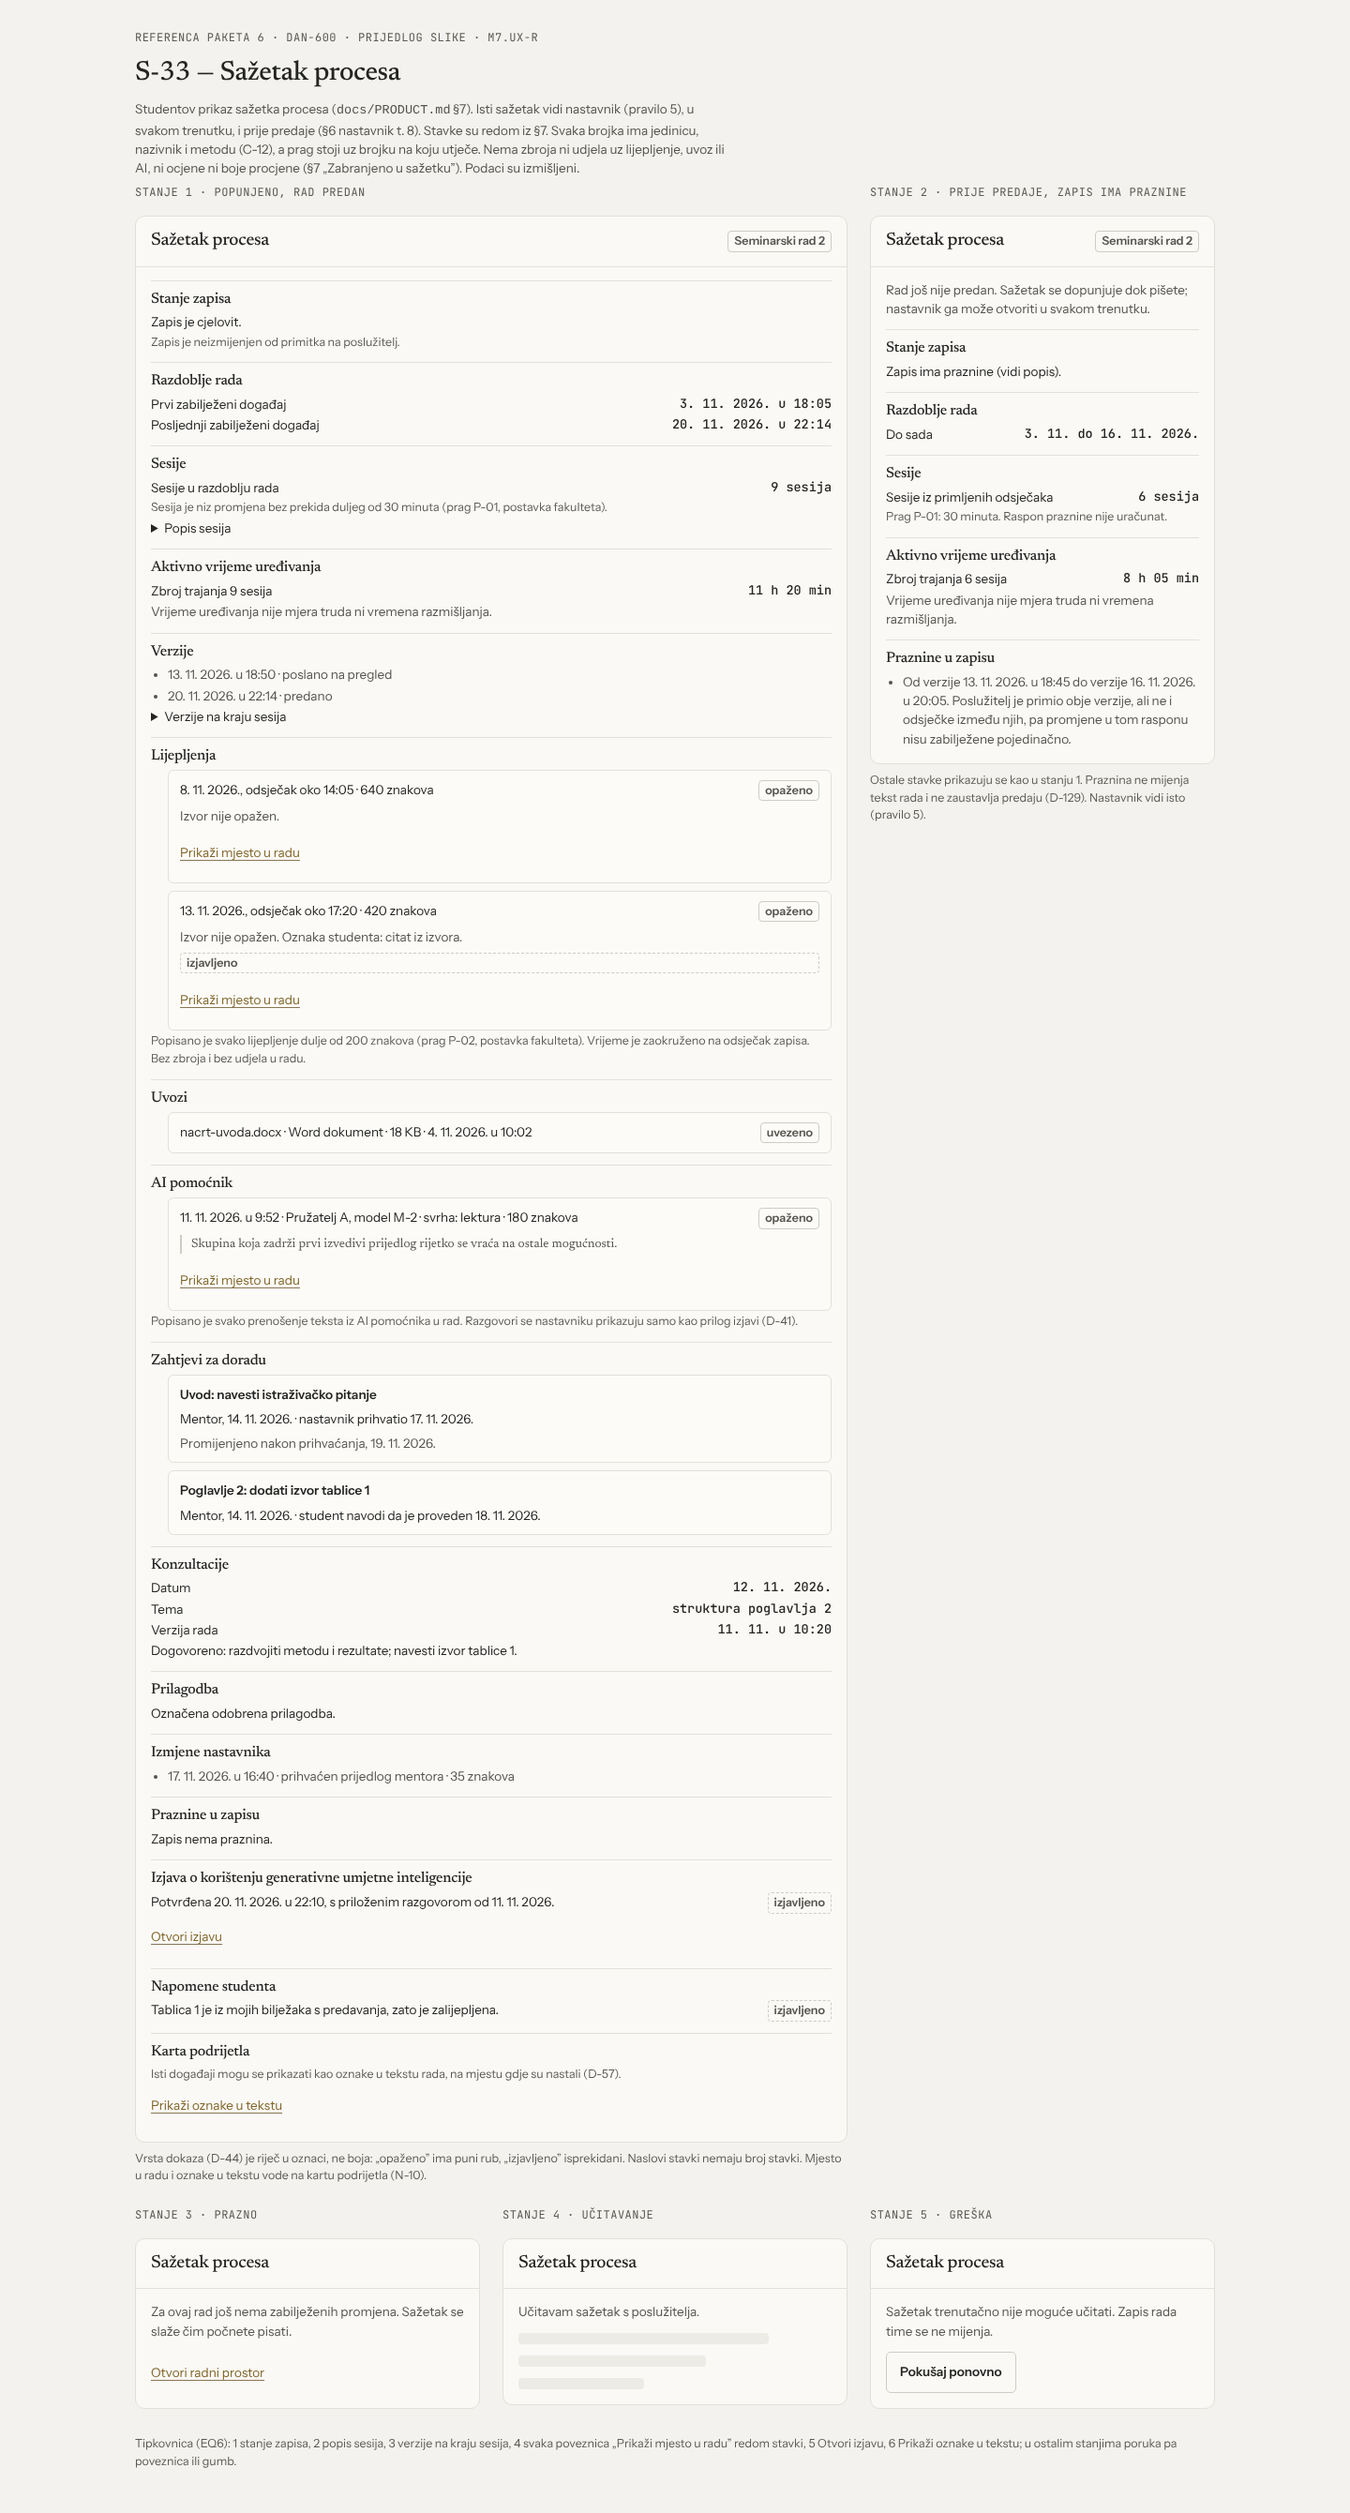
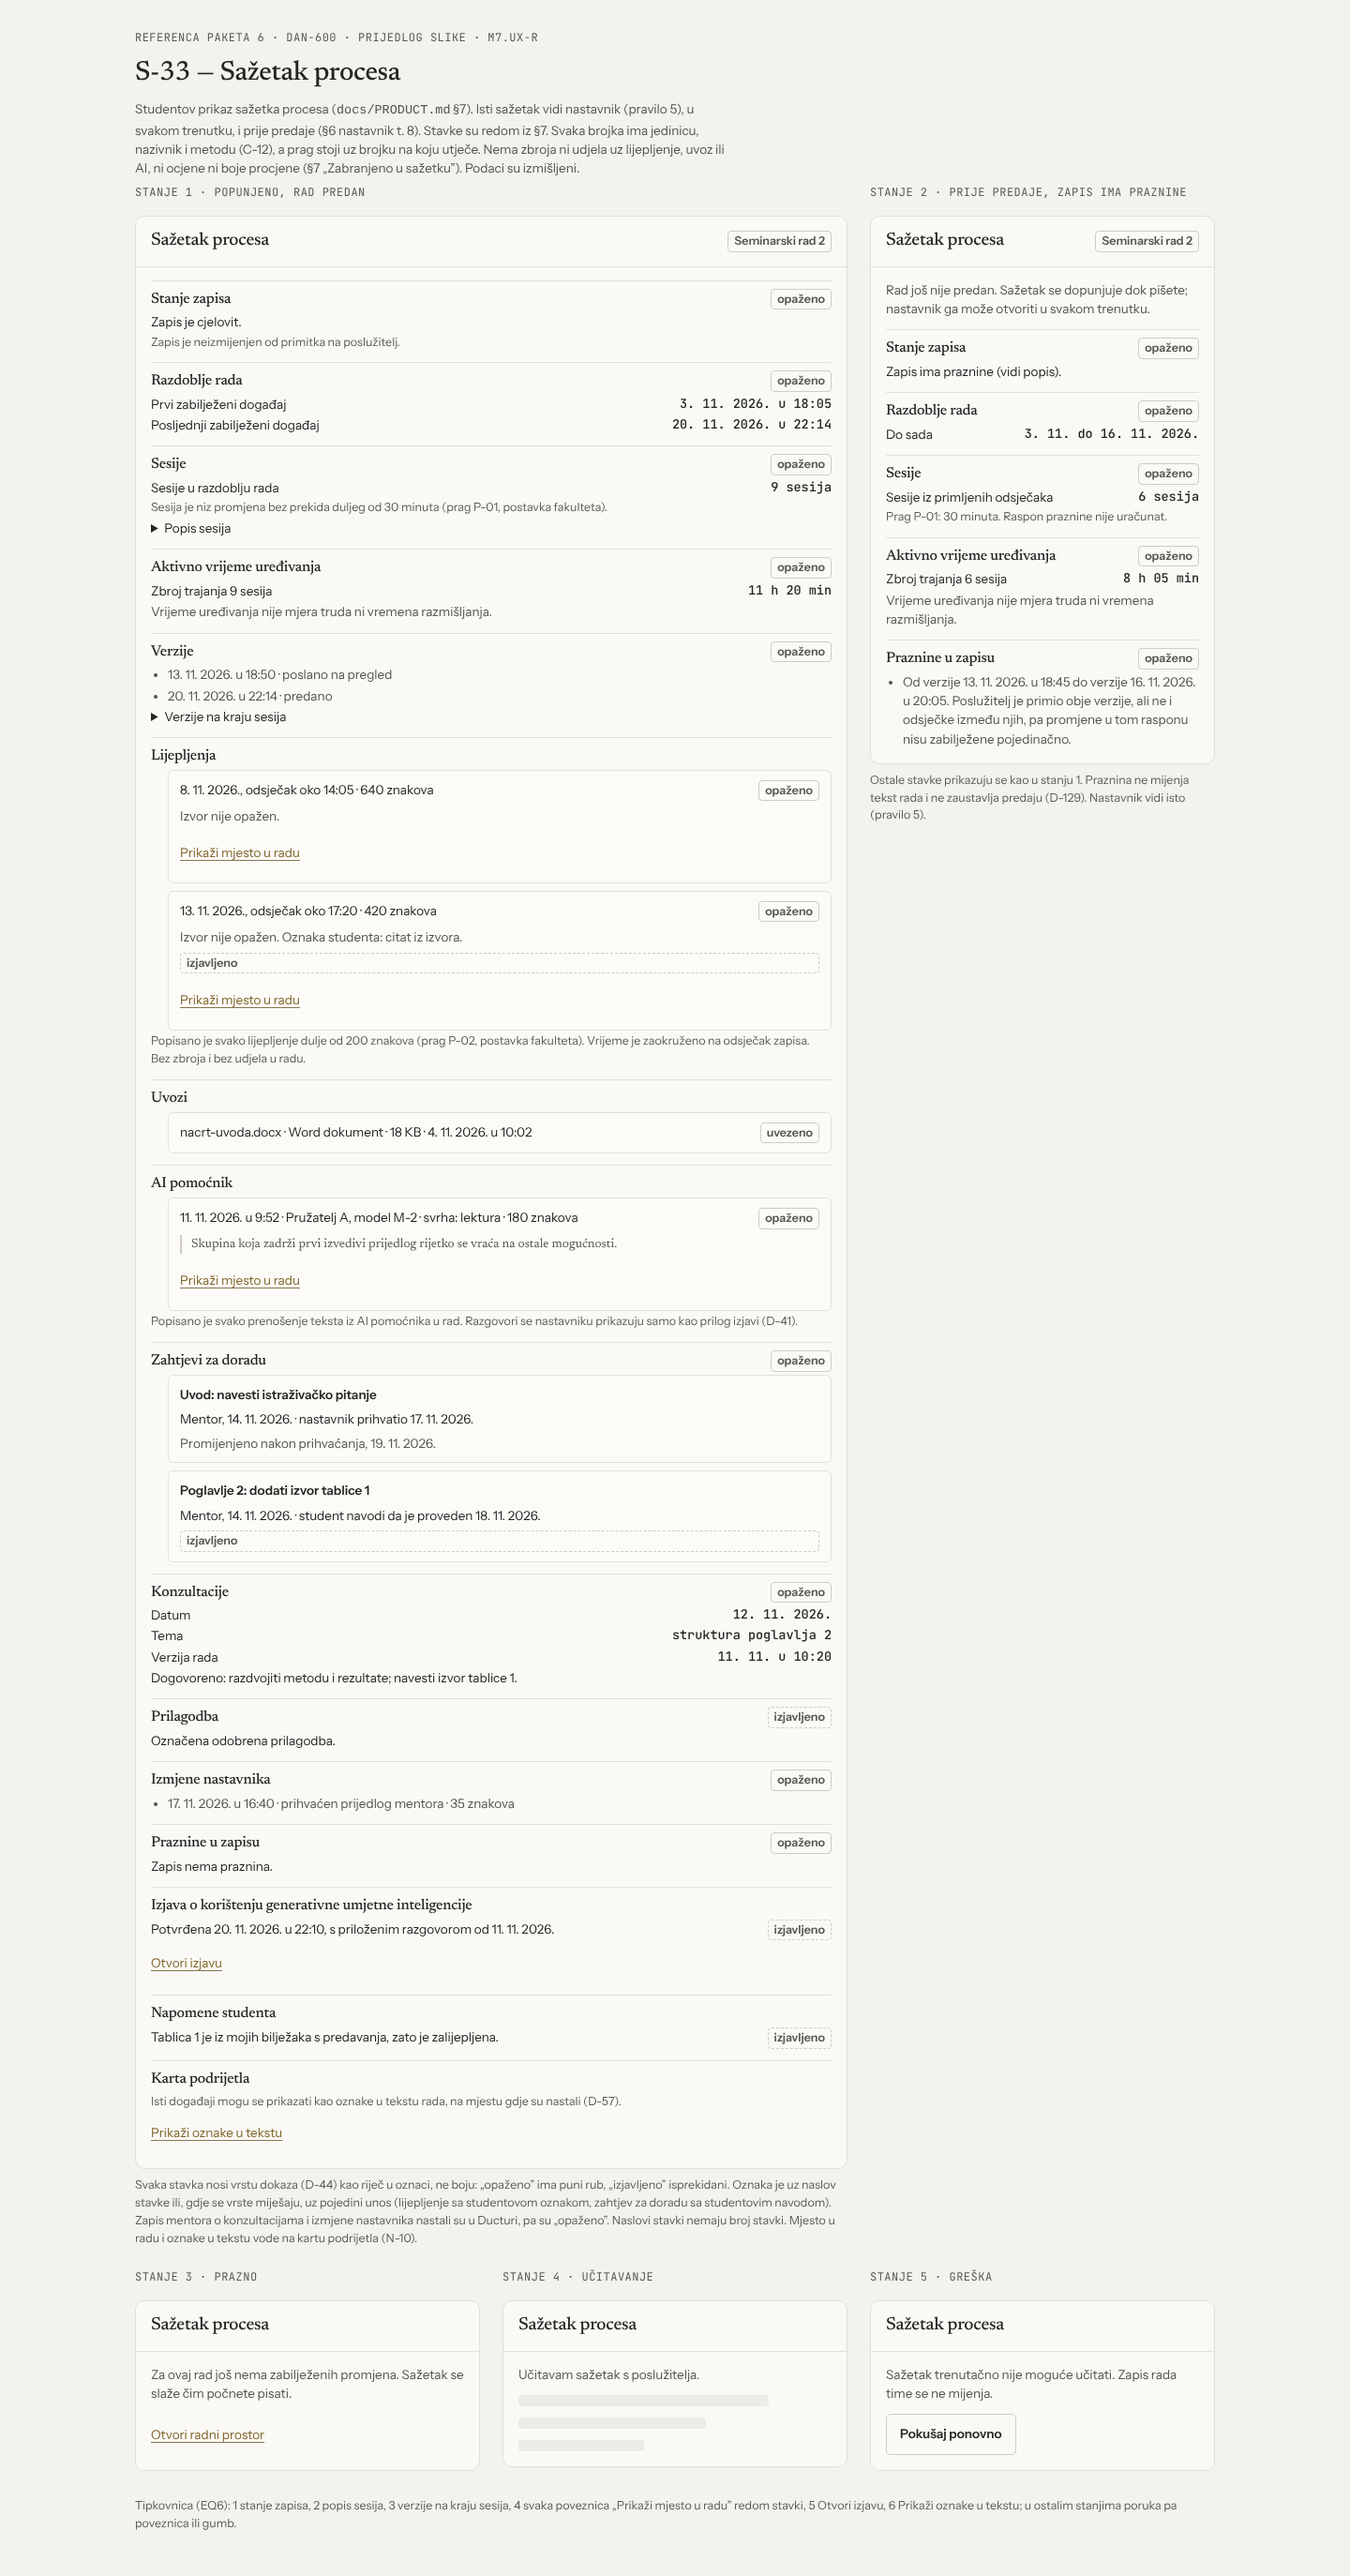
docs: tag evidence kind on every S-33 summary item (DAN-600)
Codex P2 on #1815: D-44 and PRODUCT section 7 require an evidence-kind
label on every summary item. The adjustment item now carries "izjavljeno";
items without a per-entry label carry the kind next to the heading, and a
student's claim on a revision request carries its own label. Snapshots and
SHA256SUMS regenerated.

Claude-Session: https://claude.ai/code/session_011GCKG9YKQ3fpNkYVrkXGih

diff --git a/docs/design/ductura/m7-reference/s33-sazetak-procesa.html b/docs/design/ductura/m7-reference/s33-sazetak-procesa.html
@@ -18,9 +18,9 @@
     <div class="ref-tag">Stanje 1 · popunjeno, rad predan</div>
     <div class="panel"><div class="panel-top"><h2 id="p1">Sažetak procesa</h2><span class="tag">Seminarski rad 2</span></div>
       <div class="panel-body sum">
-        <section class="state"><h3>Stanje zapisa</h3><p>Zapis je cjelovit.</p><p class="meta">Zapis je neizmijenjen od primitka na poslužitelj.</p></section>
-        <section class="state"><h3>Razdoblje rada</h3><div class="kv"><span>Prvi zabilježeni događaj</span><b>3. 11. 2026. u 18:05</b></div><div class="kv"><span>Posljednji zabilježeni događaj</span><b>20. 11. 2026. u 22:14</b></div></section>
-        <section class="state"><h3>Sesije</h3>
+        <section class="state"><div class="ev"><h3>Stanje zapisa</h3><span class="tag">opaženo</span></div><p>Zapis je cjelovit.</p><p class="meta">Zapis je neizmijenjen od primitka na poslužitelj.</p></section>
+        <section class="state"><div class="ev"><h3>Razdoblje rada</h3><span class="tag">opaženo</span></div><div class="kv"><span>Prvi zabilježeni događaj</span><b>3. 11. 2026. u 18:05</b></div><div class="kv"><span>Posljednji zabilježeni događaj</span><b>20. 11. 2026. u 22:14</b></div></section>
+        <section class="state"><div class="ev"><h3>Sesije</h3><span class="tag">opaženo</span></div>
           <div class="kv"><span>Sesije u razdoblju rada</span><b>9 sesija</b></div>
           <p class="meta">Sesija je niz promjena bez prekida duljeg od 30 minuta (prag P-01, postavka fakulteta).</p>
           <details><summary>Popis sesija</summary><ul class="facts">
@@ -29,11 +29,11 @@
             <li>16. 11. 2026., 19:10 do 20:05</li><li>18. 11. 2026., 20:30 do 21:40</li><li>20. 11. 2026., 20:55 do 22:05</li>
           </ul></details>
         </section>
-        <section class="state"><h3>Aktivno vrijeme uređivanja</h3>
+        <section class="state"><div class="ev"><h3>Aktivno vrijeme uređivanja</h3><span class="tag">opaženo</span></div>
           <div class="kv"><span>Zbroj trajanja 9 sesija</span><b>11 h 20 min</b></div>
           <p class="note">Vrijeme uređivanja nije mjera truda ni vremena razmišljanja.</p>
         </section>
-        <section class="state"><h3>Verzije</h3><ul class="facts">
+        <section class="state"><div class="ev"><h3>Verzije</h3><span class="tag">opaženo</span></div><ul class="facts">
           <li>13. 11. 2026. u 18:50 · poslano na pregled</li>
           <li>20. 11. 2026. u 22:14 · predano</li>
         </ul><details><summary>Verzije na kraju sesija</summary><ul class="facts"><li>3. 11. u 19:40</li><li>4. 11. u 11:10</li><li>6. 11. u 21:45</li><li>8. 11. u 15:05</li><li>11. 11. u 10:20</li><li>13. 11. u 18:45</li><li>16. 11. u 20:05</li><li>18. 11. u 21:40</li><li>20. 11. u 22:05</li></ul></details></section>
@@ -50,19 +50,19 @@
             <blockquote class="quote">Skupina koja zadrži prvi izvedivi prijedlog rijetko se vraća na ostale mogućnosti.</blockquote><a href="#p1">Prikaži mjesto u radu</a></li></ul>
           <p class="meta">Popisano je svako prenošenje teksta iz AI pomoćnika u rad. Razgovori se nastavniku prikazuju samo kao prilog izjavi (D-41).</p>
         </section>
-        <section class="state"><h3>Zahtjevi za doradu</h3><ul class="list">
+        <section class="state"><div class="ev"><h3>Zahtjevi za doradu</h3><span class="tag">opaženo</span></div><ul class="list">
           <li class="item"><span class="title">Uvod: navesti istraživačko pitanje</span><span>Mentor, 14. 11. 2026. · nastavnik prihvatio 17. 11. 2026.</span><span class="note">Promijenjeno nakon prihvaćanja, 19. 11. 2026.</span></li>
-          <li class="item"><span class="title">Poglavlje 2: dodati izvor tablice 1</span><span>Mentor, 14. 11. 2026. · student navodi da je proveden 18. 11. 2026.</span></li>
+          <li class="item"><span class="title">Poglavlje 2: dodati izvor tablice 1</span><span>Mentor, 14. 11. 2026. · student navodi da je proveden 18. 11. 2026.</span><span class="tag open">izjavljeno</span></li>
         </ul></section>
-        <section class="state"><h3>Konzultacije</h3><div class="kv"><span>Datum</span><b>12. 11. 2026.</b></div><div class="kv"><span>Tema</span><b>struktura poglavlja 2</b></div><div class="kv"><span>Verzija rada</span><b>11. 11. u 10:20</b></div><p>Dogovoreno: razdvojiti metodu i rezultate; navesti izvor tablice 1.</p></section>
-        <section class="state"><h3>Prilagodba</h3><p>Označena odobrena prilagodba.</p></section>
-        <section class="state"><h3>Izmjene nastavnika</h3><ul class="facts"><li>17. 11. 2026. u 16:40 · prihvaćen prijedlog mentora · 35 znakova</li></ul></section>
-        <section class="state"><h3>Praznine u zapisu</h3><p>Zapis nema praznina.</p></section>
+        <section class="state"><div class="ev"><h3>Konzultacije</h3><span class="tag">opaženo</span></div><div class="kv"><span>Datum</span><b>12. 11. 2026.</b></div><div class="kv"><span>Tema</span><b>struktura poglavlja 2</b></div><div class="kv"><span>Verzija rada</span><b>11. 11. u 10:20</b></div><p>Dogovoreno: razdvojiti metodu i rezultate; navesti izvor tablice 1.</p></section>
+        <section class="state"><div class="ev"><h3>Prilagodba</h3><span class="tag open">izjavljeno</span></div><p>Označena odobrena prilagodba.</p></section>
+        <section class="state"><div class="ev"><h3>Izmjene nastavnika</h3><span class="tag">opaženo</span></div><ul class="facts"><li>17. 11. 2026. u 16:40 · prihvaćen prijedlog mentora · 35 znakova</li></ul></section>
+        <section class="state"><div class="ev"><h3>Praznine u zapisu</h3><span class="tag">opaženo</span></div><p>Zapis nema praznina.</p></section>
         <section class="state"><h3>Izjava o korištenju generativne umjetne inteligencije</h3><div class="ev"><span>Potvrđena 20. 11. 2026. u 22:10, s priloženim razgovorom od 11. 11. 2026.</span><span class="tag open">izjavljeno</span></div><a href="#p1">Otvori izjavu</a></section>
         <section class="state"><h3>Napomene studenta</h3><div class="ev"><span>Tablica 1 je iz mojih bilježaka s predavanja, zato je zalijepljena.</span><span class="tag open">izjavljeno</span></div></section>
         <section class="state"><h3>Karta podrijetla</h3><p class="meta">Isti događaji mogu se prikazati kao oznake u tekstu rada, na mjestu gdje su nastali (D-57).</p><a href="#p1">Prikaži oznake u tekstu</a></section>
       </div></div>
-    <p class="meta">Vrsta dokaza (D-44) je riječ u oznaci, ne boja: „opaženo” ima puni rub, „izjavljeno” isprekidani. Naslovi stavki nemaju broj stavki. Mjesto u radu i oznake u tekstu vode na kartu podrijetla (N-10).</p>
+    <p class="meta">Svaka stavka nosi vrstu dokaza (D-44) kao riječ u oznaci, ne boju: „opaženo” ima puni rub, „izjavljeno” isprekidani. Oznaka je uz naslov stavke ili, gdje se vrste miješaju, uz pojedini unos (lijepljenje sa studentovom oznakom, zahtjev za doradu sa studentovim navodom). Zapis mentora o konzultacijama i izmjene nastavnika nastali su u Ducturi, pa su „opaženo”. Naslovi stavki nemaju broj stavki. Mjesto u radu i oznake u tekstu vode na kartu podrijetla (N-10).</p>
   </section>
 
   <section class="variant" aria-labelledby="p2">
@@ -70,11 +70,11 @@
     <div class="panel"><div class="panel-top"><h2 id="p2">Sažetak procesa</h2><span class="tag">Seminarski rad 2</span></div>
       <div class="panel-body sum">
         <p class="note">Rad još nije predan. Sažetak se dopunjuje dok pišete; nastavnik ga može otvoriti u svakom trenutku.</p>
-        <section class="state"><h3>Stanje zapisa</h3><p>Zapis ima praznine (vidi popis).</p></section>
-        <section class="state"><h3>Razdoblje rada</h3><div class="kv"><span>Do sada</span><b>3. 11. do 16. 11. 2026.</b></div></section>
-        <section class="state"><h3>Sesije</h3><div class="kv"><span>Sesije iz primljenih odsječaka</span><b>6 sesija</b></div><p class="meta">Prag P-01: 30 minuta. Raspon praznine nije uračunat.</p></section>
-        <section class="state"><h3>Aktivno vrijeme uređivanja</h3><div class="kv"><span>Zbroj trajanja 6 sesija</span><b>8 h 05 min</b></div><p class="note">Vrijeme uređivanja nije mjera truda ni vremena razmišljanja.</p></section>
-        <section class="state"><h3>Praznine u zapisu</h3><ul class="facts"><li>Od verzije 13. 11. 2026. u 18:45 do verzije 16. 11. 2026. u 20:05. Poslužitelj je primio obje verzije, ali ne i odsječke između njih, pa promjene u tom rasponu nisu zabilježene pojedinačno.</li></ul></section>
+        <section class="state"><div class="ev"><h3>Stanje zapisa</h3><span class="tag">opaženo</span></div><p>Zapis ima praznine (vidi popis).</p></section>
+        <section class="state"><div class="ev"><h3>Razdoblje rada</h3><span class="tag">opaženo</span></div><div class="kv"><span>Do sada</span><b>3. 11. do 16. 11. 2026.</b></div></section>
+        <section class="state"><div class="ev"><h3>Sesije</h3><span class="tag">opaženo</span></div><div class="kv"><span>Sesije iz primljenih odsječaka</span><b>6 sesija</b></div><p class="meta">Prag P-01: 30 minuta. Raspon praznine nije uračunat.</p></section>
+        <section class="state"><div class="ev"><h3>Aktivno vrijeme uređivanja</h3><span class="tag">opaženo</span></div><div class="kv"><span>Zbroj trajanja 6 sesija</span><b>8 h 05 min</b></div><p class="note">Vrijeme uređivanja nije mjera truda ni vremena razmišljanja.</p></section>
+        <section class="state"><div class="ev"><h3>Praznine u zapisu</h3><span class="tag">opaženo</span></div><ul class="facts"><li>Od verzije 13. 11. 2026. u 18:45 do verzije 16. 11. 2026. u 20:05. Poslužitelj je primio obje verzije, ali ne i odsječke između njih, pa promjene u tom rasponu nisu zabilježene pojedinačno.</li></ul></section>
       </div></div>
     <p class="meta">Ostale stavke prikazuju se kao u stanju 1. Praznina ne mijenja tekst rada i ne zaustavlja predaju (D-129). Nastavnik vidi isto (pravilo 5).</p>
   </section>

diff --git a/docs/design/ductura/m7-reference/README.md b/docs/design/ductura/m7-reference/README.md
@@ -104,7 +104,7 @@ Svijetla ljuska je `data-theme="light"` na `<html>`. Kontrolni zbrojevi su u `SH
 - Svaka brojka ima jedinicu, nazivnik i metodu (C-12). Prag stoji uz brojku na koju utječe: sesija je niz promjena bez prekida duljeg od 30 minuta (P-01), popisano je lijepljenje dulje od 200 znakova (P-02). Oba su postavke fakulteta.
 - Aktivno vrijeme je zbroj trajanja navedenih sesija, uz rečenicu „Vrijeme uređivanja nije mjera truda ni vremena razmišljanja.”
 - Uz lijepljenja, uvoze i AI nema zbroja, udjela u radu ni broja u naslovu stavke (§7 „Zabranjeno u sažetku”, #1789). Nema ocjene ni boje procjene.
-- Vrsta dokaza (D-44) je riječ u oznaci: „opaženo” s punim rubom, „izjavljeno” s isprekidanim. Oznaka studenta uz lijepljenje je „izjavljeno”, uz zabilježeni „Izvor nije opažen”.
+- Svaka stavka nosi vrstu dokaza (D-44, §7) kao riječ u oznaci: „opaženo” s punim rubom, „izjavljeno” s isprekidanim, „uvezeno” uz uvoz. Oznaka stoji uz naslov stavke, a gdje se vrste miješaju, uz pojedini unos. Prilagodba je studentova oznaka, pa je „izjavljeno”; isto vrijedi za studentov navod da je zahtjev za doradu proveden i za oznaku studenta uz lijepljenje, uz zabilježeni „Izvor nije opažen”. Zapis mentora o konzultacijama i izmjene nastavnika nastali su u Ducturi i nose „opaženo”.
 - Tekst prenesen iz AI pomoćnika prikazan je kao citat s pružateljem, modelom i svrhom. Razgovori se nastavniku prikazuju samo kao prilog izjavi (D-41).
 - Vrijeme lijepljenja je zaokruženo na odsječak zapisa („odsječak oko 14:05”).
 - „Prikaži mjesto u radu” i „Prikaži oznake u tekstu” vode na kartu podrijetla u tekstu (D-57, N-10 u `../m7-reference-b`).
